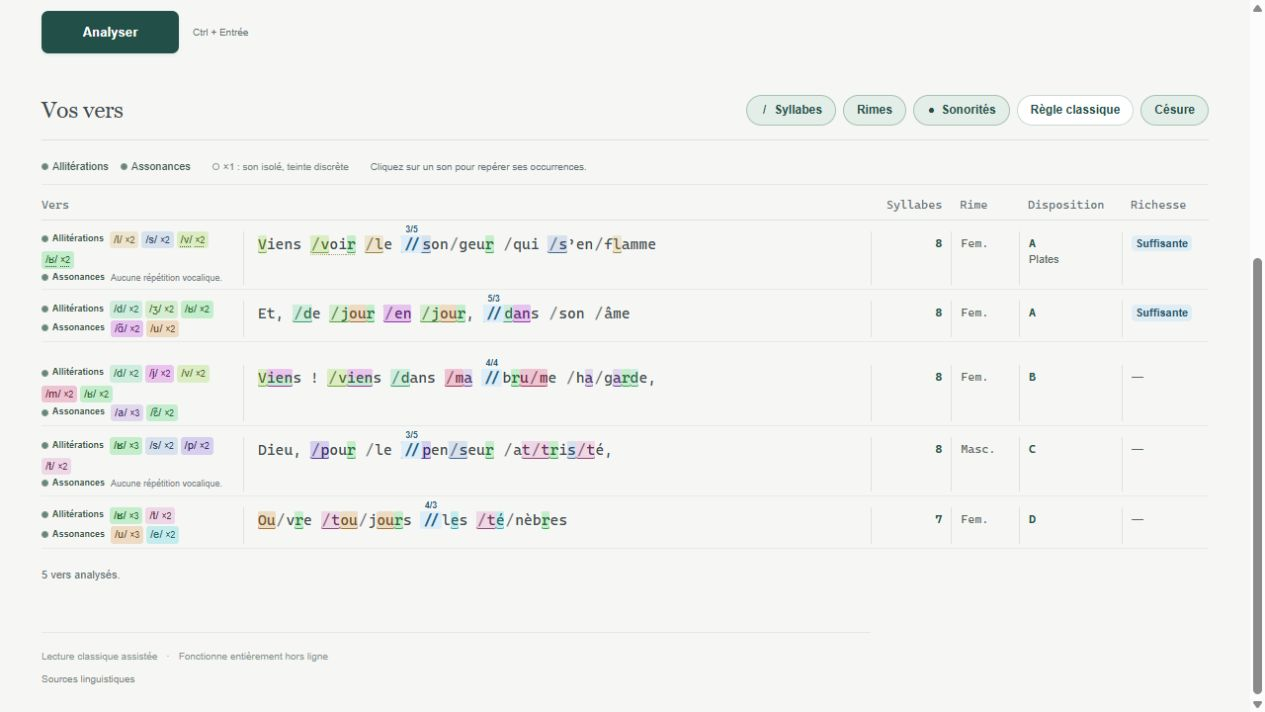
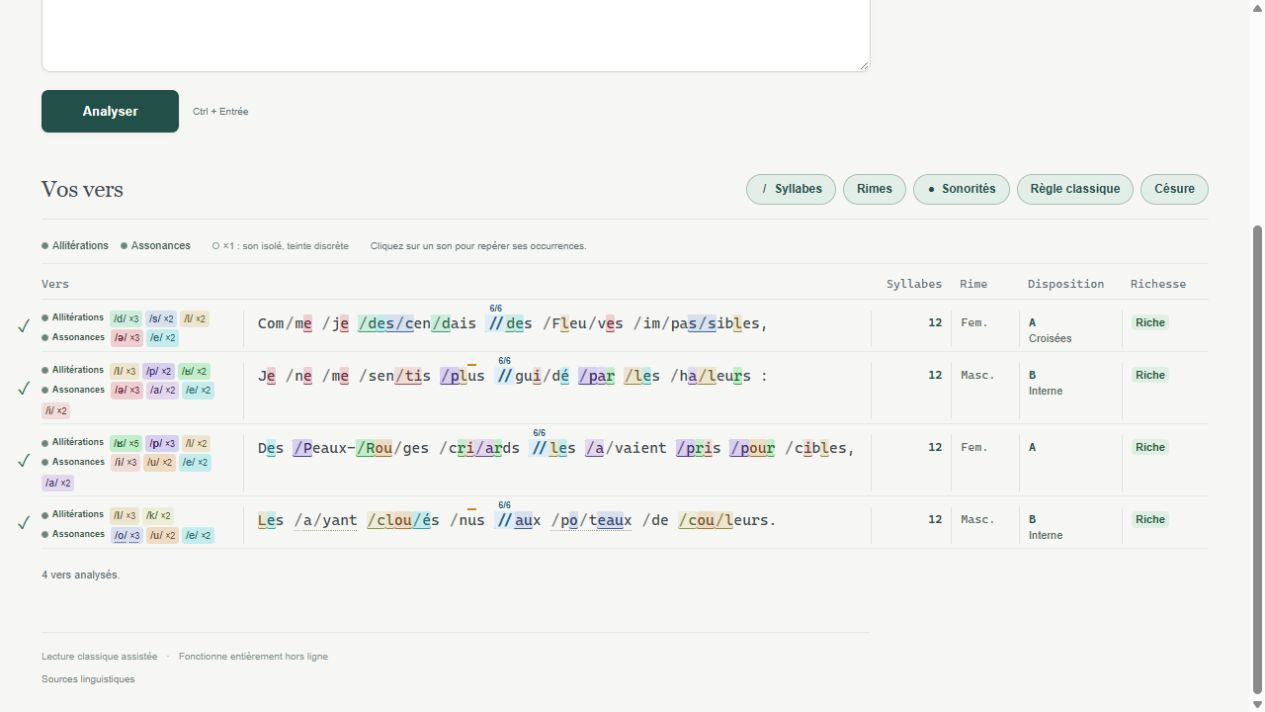
Use Le Bateau ivre as the documented example and screenshot text

diff --git a/README.md b/README.md
@@ -14,6 +14,8 @@
 
 Collez un poème et cliquez sur **Analyser**. Activez les outils qui vous intéressent pour explorer le texte dans une seule vue.
 
+Le texte d’exemple est **Le Bateau ivre**, d’Arthur Rimbaud, dans l’édition des *Œuvres complètes* de 1942 sur Wikisource. [Copier les 100 vers](docs/examples/le-bateau-ivre.txt) · [Lire la source](https://fr.wikisource.org/wiki/%C5%92uvres_compl%C3%A8tes_%28Rimbaud%29/Bateau_ivre)
+
 | Fonction | Dans l’application |
 | --- | --- |
 | **Syllabes** | Affiche les frontières / et le compte par vers, avec une fourchette lorsque plusieurs comptes sont possibles. |
@@ -48,6 +50,8 @@ Les césures, les prononciations et certains comptes sont des propositions de le
 ## <img src="docs/assets/gb.svg" width="24" alt="United Kingdom"> English
 
 Paste a French poem and select **Analyser**. Combine the tools to explore syllables, rhymes and repeated sounds in the same text. The application interface is in French.
+
+The example poem is **Le Bateau ivre** by Arthur Rimbaud, from the 1942 edition of his *Œuvres complètes* on Wikisource. [Copy the complete 100-line poem](docs/examples/le-bateau-ivre.txt) · [Read the source](https://fr.wikisource.org/wiki/%C5%92uvres_compl%C3%A8tes_%28Rimbaud%29/Bateau_ivre)
 
 | Feature | What it shows |
 | --- | --- |

diff --git a/THIRD_PARTY_NOTICES.md b/THIRD_PARTY_NOTICES.md
@@ -29,6 +29,6 @@ The GLÀFF notice supplied with the data is also included in the application's *
 
 ## Captures · Screenshots
 
-Les captures montrent l’application et des vers de Victor Hugo. Elles ont été réalisées pendant le développement du projet.
+Les captures montrent l’application et les premiers vers du **Bateau ivre**, d’Arthur Rimbaud. Le fichier d’exemple reproduit les 100 vers depuis [Wikisource, Œuvres complètes, édition de 1942](https://fr.wikisource.org/wiki/%C5%92uvres_compl%C3%A8tes_%28Rimbaud%29/Bateau_ivre). La mise en page de la lettrine initiale a été réunie dans « Comme » pour le texte à copier.
 
-The screenshots show the application and lines by Victor Hugo. They were captured during project development.
+The screenshots show the application and the opening lines of **Le Bateau ivre** by Arthur Rimbaud. The example file reproduces the 100 lines from the linked Wikisource edition. The initial drop cap was joined back into “Comme” in the copyable text.
